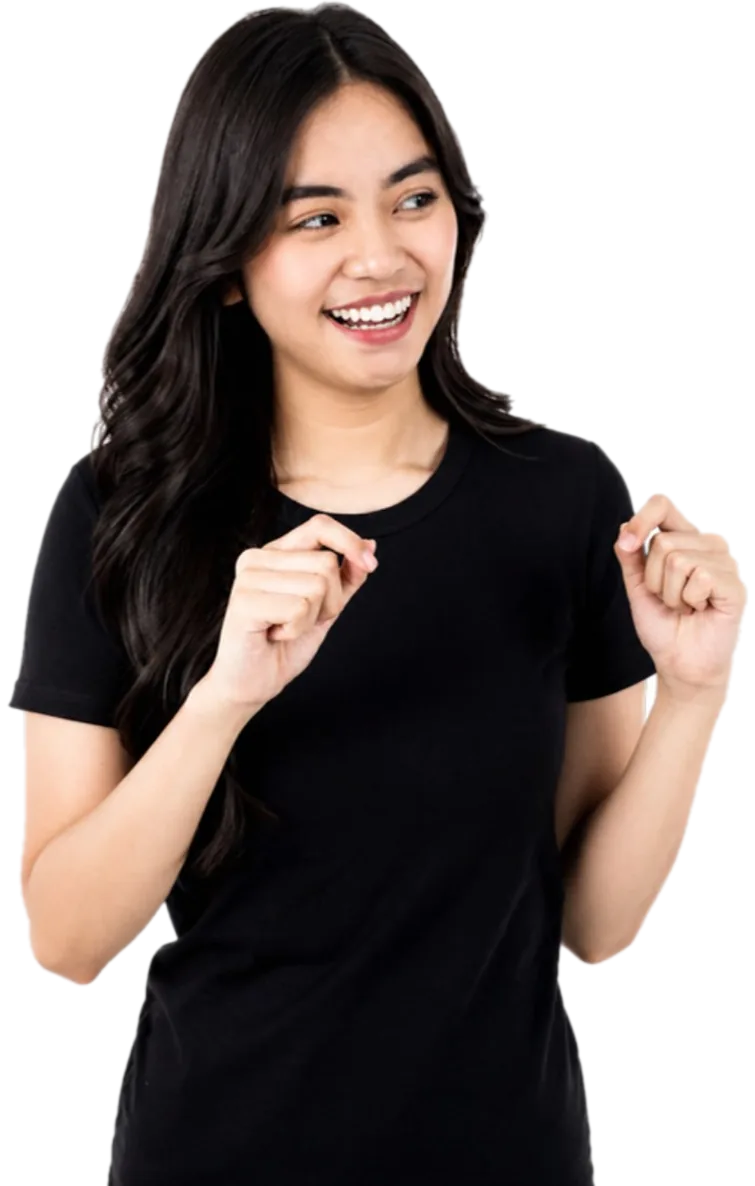
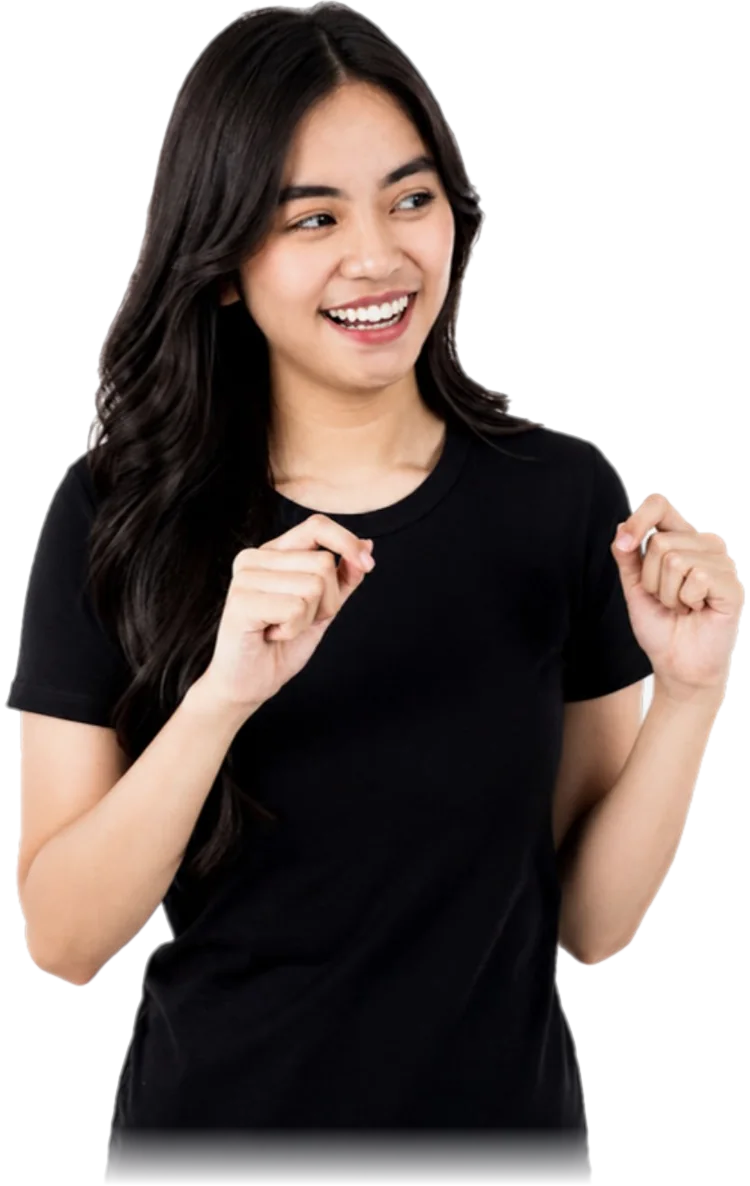
Re-cut all people images without white halos
- New matte: removes the white fringe from hair and edges (colour
  decontamination), softer edge, slightly lower highlights.
- Bodies that ran off the frame now fade out instead of a straight cut.
- Drop shadows removed from cut-out people; calendar tags shown as dots
  where space is tight.

Claude-Session: https://claude.ai/code/session_01WxiEpBbYd9knDzcaHARf4X

diff --git a/index.html b/index.html
@@ -409,10 +409,11 @@ nav .nav-cta:hover,nav .nav-cta[aria-current="page"]{color:var(--navy);backgroun
 .sp ul.inc svg{width:12px;height:12px;fill:none;stroke:currentColor;stroke-width:3.2;stroke-linecap:round;stroke-linejoin:round}
 @media (max-width:700px){nav a .hm{display:none}}
 .mockwrap.has-person{padding-top:clamp(40px,6vw,90px)}
-.sv-person{position:absolute;z-index:3;bottom:-4px;height:clamp(220px,26vw,330px);width:auto;max-width:none;pointer-events:none;filter:drop-shadow(0 18px 24px rgba(0,0,0,.22));-webkit-mask-image:linear-gradient(0deg,transparent,#000 10%);mask-image:linear-gradient(0deg,transparent,#000 10%)}
+.sv-person{position:absolute;z-index:3;bottom:-4px;height:clamp(220px,26vw,330px);width:auto;max-width:none;pointer-events:none;-webkit-mask-image:linear-gradient(0deg,transparent,#000 10%);mask-image:linear-gradient(0deg,transparent,#000 10%)}
 .has-person.r .sv-person{right:-4%}
 .has-person.l .sv-person{left:-4%}
 .has-person.r .mock{margin-right:24%}
+.has-person .cal .post em{font-size:0;width:12px;height:12px;padding:0}
 .has-person.l .mock{margin-left:24%}
 @media (max-width:900px){.sv-person{top:0;bottom:auto;height:190px}.has-person.r .mock,.has-person.l .mock{margin:0}.has-person.r .sv-person{right:8px}.has-person.l .sv-person{left:8px}.mockwrap.has-person{padding-top:180px}}
 /* ---------- CALL PANEL ---------- */
@@ -477,7 +478,7 @@ nav .nav-cta:hover,nav .nav-cta[aria-current="page"]{color:var(--navy);backgroun
 
 .ph-person{position:relative;height:clamp(300px,32vw,420px);width:min(100%,380px);margin-inline:auto;border-radius:28px;overflow:hidden;
   background:linear-gradient(160deg,#DCE9CF 0%,#C9DDB4 55%,#B3CC98 100%);box-shadow:0 30px 60px -30px rgba(0,0,0,.55)}
-.ph-person img{position:absolute;bottom:0;left:50%;transform:translateX(-50%);height:94%;width:auto;max-width:none;filter:drop-shadow(0 10px 18px rgba(20,40,20,.25))}
+.ph-person img{position:absolute;bottom:0;left:50%;transform:translateX(-50%);height:94%;width:auto;max-width:none}
 .ph-person.how-person img{left:58%}
 .ph-ring{display:none}
 .ph-person .badge{z-index:2;animation:none}
@@ -541,7 +542,7 @@ nav .nav-cta:hover,nav .nav-cta[aria-current="page"]{color:var(--navy);backgroun
 .rolewall{display:flex;flex-wrap:wrap;justify-content:center;gap:clamp(8px,2vw,24px);margin-top:12px}
 .rp{position:relative;flex:0 1 360px;aspect-ratio:1/1;max-width:100%}
 .rp-blob{position:absolute;z-index:0;left:6%;right:6%;bottom:6%;height:46%;border-radius:999px;background:radial-gradient(closest-side,rgba(201,221,180,.55),rgba(201,221,180,.18) 70%,transparent 100%)}
-.rp-person{position:absolute;z-index:1;bottom:0;height:100%;width:auto;max-width:none;filter:drop-shadow(0 18px 24px rgba(16,24,40,.18));-webkit-mask-image:linear-gradient(0deg,transparent,#000 7%);mask-image:linear-gradient(0deg,transparent,#000 7%)}
+.rp-person{position:absolute;z-index:1;bottom:0;height:100%;width:auto;max-width:none;-webkit-mask-image:linear-gradient(0deg,transparent,#000 7%);mask-image:linear-gradient(0deg,transparent,#000 7%)}
 .rp.left .rp-person{left:2%}
 .rp.right .rp-person{right:2%}
 .rcard{position:absolute;z-index:2;top:30%;width:min(62%,230px);display:grid;gap:6px;padding:14px 16px;border-radius:16px;text-decoration:none;color:#1C2740;
